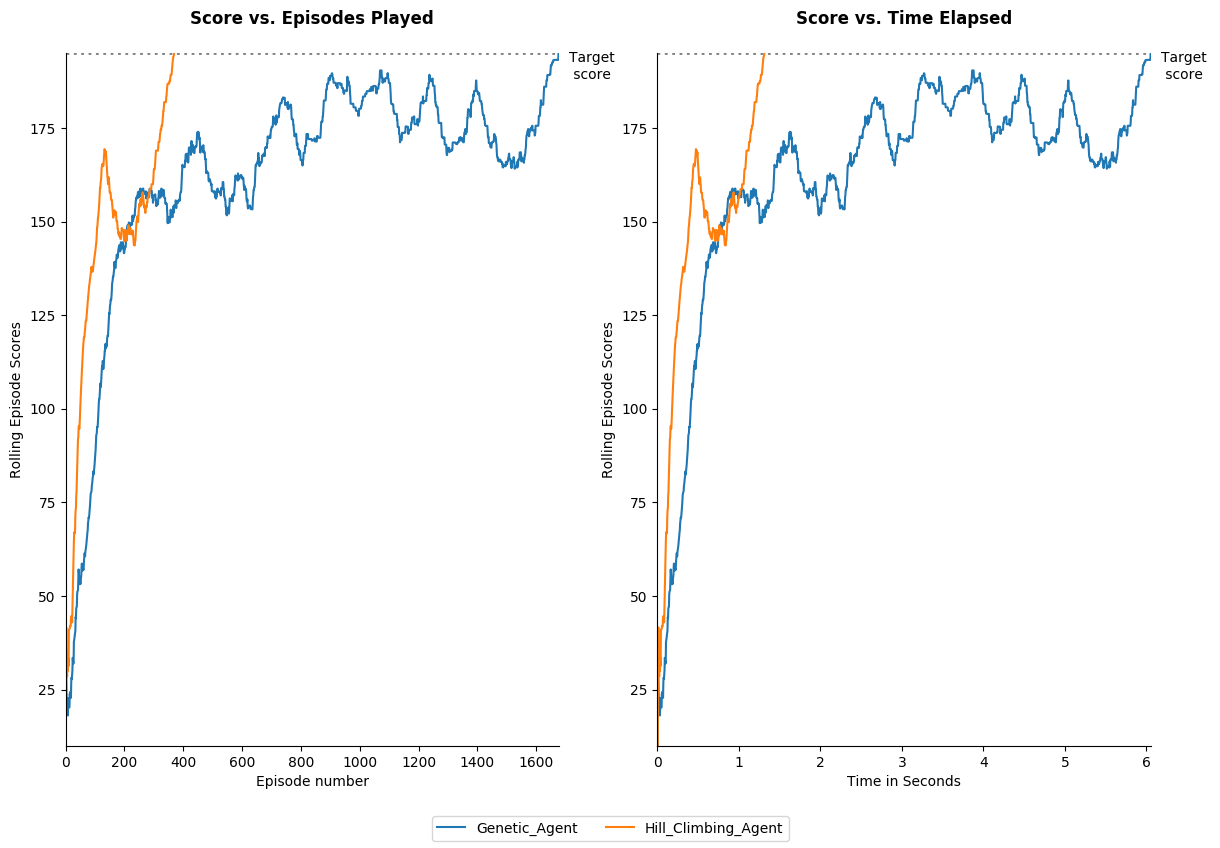
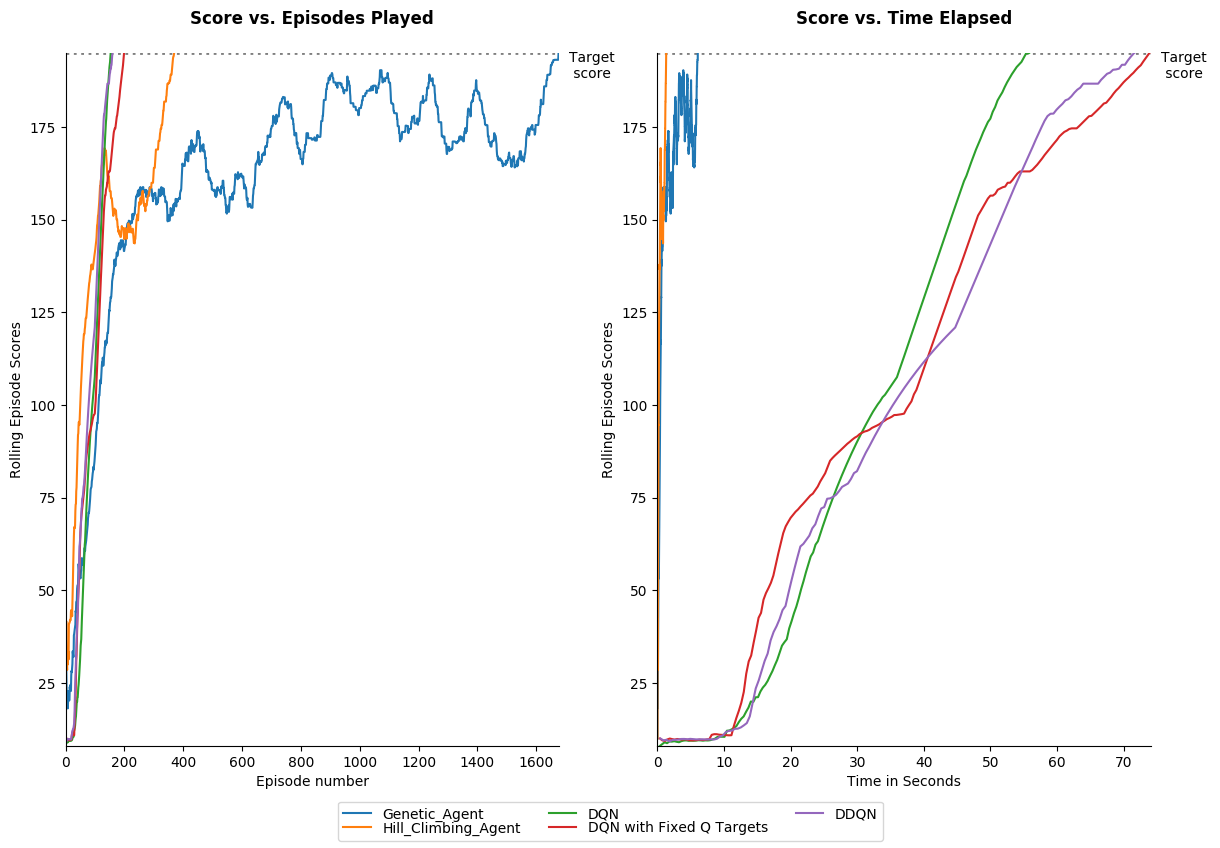
added results graph

diff --git a/Agents/DQN_Agents/DQN_Agent.py b/Agents/DQN_Agents/DQN_Agent.py
@@ -109,8 +109,14 @@ class DQN_Agent(Base_Agent):
 
             last_rolling_score = self.rolling_results[-1]
 
+            if last_rolling_score > 0.9 * self.average_score_required_to_win:
+                new_lr = starting_lr / 300.0
+
             if last_rolling_score > 0.75 * self.average_score_required_to_win:
                 new_lr = starting_lr / 100.0
+
+            elif last_rolling_score > 0.6 * self.average_score_required_to_win:
+                new_lr = starting_lr / 20.0
 
             elif last_rolling_score > 0.5 * self.average_score_required_to_win:
                 new_lr = starting_lr / 10.0

diff --git a/Results/Cart_Pole/Results.py b/Results/Cart_Pole/Results.py
@@ -30,7 +30,7 @@ config.runs_per_agent = 1
 config.hyperparameters = {
     "DQN_Agents": {
         "learning_rate": 0.005,
-        "batch_size": 64,
+        "batch_size": 128,
         "buffer_size": 20000,
         "epsilon": 0.1,
         "discount_rate": 0.99,
@@ -101,6 +101,6 @@ config.hyperparameters = {
 }
 
 
-AGENTS = [DQN_Agent]  #[DDPG_Agent] .. , DQN_Agent_With_Fixed_Q_Targets, DDQN_Agent, DDQN_With_Prioritised_Experience_Replay
+AGENTS = [DDQN_With_Prioritised_Experience_Replay]  #[] .. ,DQN_Agent, DDPG_Agent , , DQN_Agent_With_Fixed_Q_Targets, DDQN_Agent
 
 run_games_for_agents(config, AGENTS)

diff --git a/README.md b/README.md
@@ -16,3 +16,19 @@ This (WIP) repository contains:
 1. REINFORCE
 1. Hill Climbing
 7. Genetic Evolution
+
+
+### **Environments Tested**
+
+1. Cart Pole
+
+
+### **Results**
+
+Because results can vary greatly each run, each agent plays the game 10 times and we show the *median* result. 
+We show the results in terms of number of episodes taken to reach the required score
+and also time taken. The algorithms were run on a 2017 Macbook Pro (no GPUs were used). 
+ 
+ ![Cart Pole Results](Results/Cart_Pole/Results_Graph.png)
+  
+
